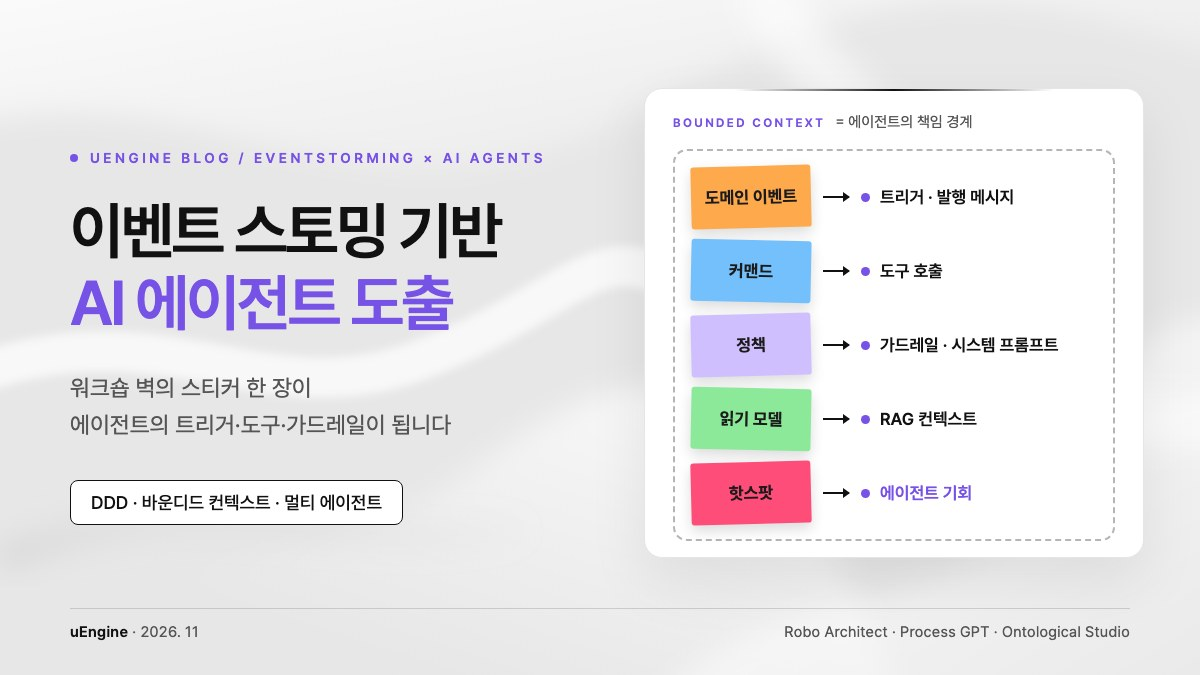
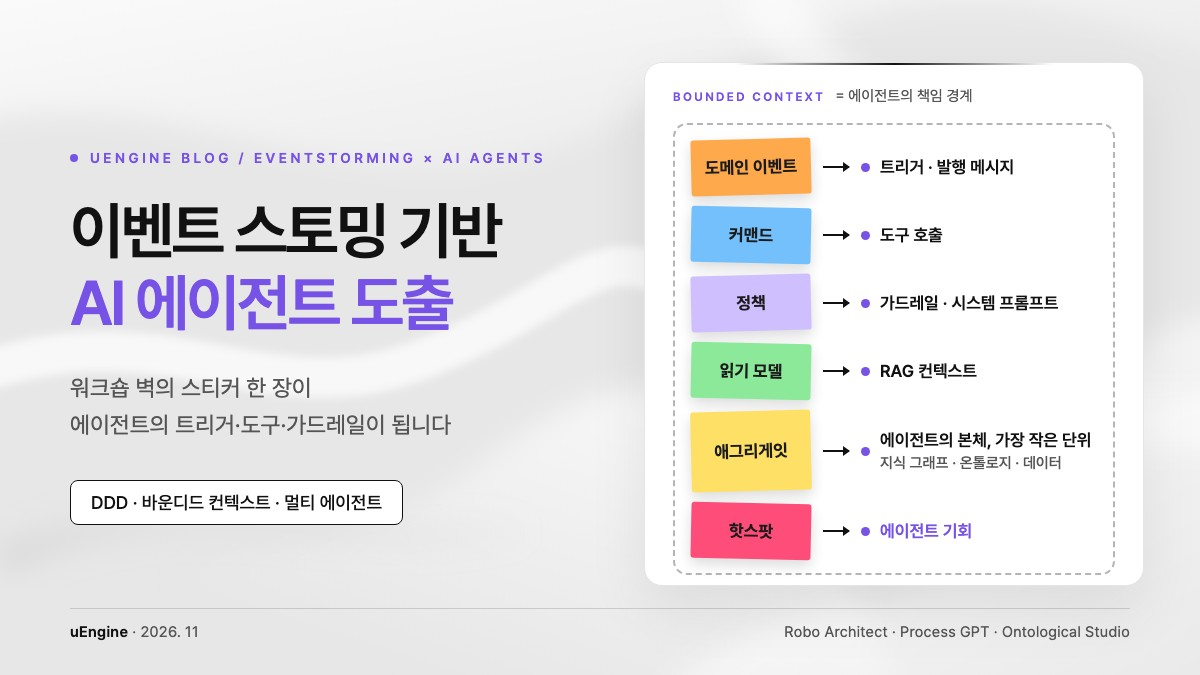
블로그·Agent Storming: 애그리게잇을 에이전트의 본체·가장 작은 단위로 설명 (한·영)
노란 스티커 애그리게잇은 데이터·온톨로지·지식 그래프일 수 있고, 에이전트의
본체가 될 수 있는 것 중 하나이자 가장 작은 단위가 될 수 있다는 관점을 반영한다.

- 블로그 본문 문단과 표 1 애그리게잇 행, 7장 제품 연결 행(Ontological Studio·DB) 추가
- 블로그 표지에 노란 애그리게잇 스티커와 설명 추가, 표지 alt 갱신
- Agent Storming 페이지 스티커 대응표 행과 안내 상자 추가

Changed region(s): [[0.5242, 0.0933, 0.9558, 0.8711]]

diff --git a/contents/blog/eventstorming-ai-agent.html b/contents/blog/eventstorming-ai-agent.html
@@ -490,7 +490,7 @@
                                     <div class="blog-item-body chat-gpt">
 
                                         <div class="mb-50">
-                                            <img src="../../images/blog/eventstorming-ai-agent.jpg" alt="이벤트 스토밍 기반 AI 에이전트 도출 — 도메인 이벤트·커맨드·정책·읽기 모델·핫스팟 스티커가 에이전트의 트리거·도구 호출·가드레일·RAG 컨텍스트·에이전트 기회로 이어지는 그림" style="width: 100%; border-radius: 10px; box-shadow: 0 8px 24px rgba(26,26,46,0.10);" decoding="async" />
+                                            <img src="../../images/blog/eventstorming-ai-agent.jpg" alt="이벤트 스토밍 기반 AI 에이전트 도출 — 도메인 이벤트·커맨드·정책·읽기 모델·애그리게잇·핫스팟 스티커가 에이전트의 트리거·도구 호출·가드레일·RAG 컨텍스트·본체(지식 그래프·온톨로지·데이터)·에이전트 기회로 이어지는 그림" style="width: 100%; border-radius: 10px; box-shadow: 0 8px 24px rgba(26,26,46,0.10);" decoding="async" />
                                         </div>
 
                                         <div class="mb-50 prose" style="border-left: 5px solid #ddd;">
@@ -567,6 +567,11 @@
                                                 노란색으로 그룹화되는 <b>집합체(Aggregate)</b>는 상태 변경의 트랜잭션 무결성을 보장하는 단위로서, 에이전트가 쓰기 작업을 수행하고 영속화(State Persistence)할 수 있는 데이터 권한의 범위를 정의한다<sup><a href="#ref-2">2</a></sup>.
                                             </p>
                                             <p>
+                                                노란 스티커의 몫은 쓰기 권한에서 끝나지 않는다. 애그리게잇은 데이터일 수도 있고, 온톨로지나 지식 그래프일 수도 있다.
+                                                에이전트가 무엇을 알고 어디까지 바꿀 수 있는지가 여기서 정해지므로, 유엔진은 애그리게잇을 에이전트의 본체가 될 수 있는 것 중 하나로 본다.
+                                                바운디드 컨텍스트가 에이전트의 책임 경계라면, 애그리게잇은 그 안에서 에이전트의 가장 작은 단위가 될 수 있다.
+                                            </p>
+                                            <p>
                                                 <b>바운디드 컨텍스트(Bounded Context)</b>는 유비쿼터스 언어(Ubiquitous Language)가 동일한 비즈니스 의미를 유지하는 논리적 경계다<sup><a href="#ref-2">2</a></sup>.
                                                 멀티 에이전트 설계에서 바운디드 컨텍스트는 두 가지 아키텍처 양식으로 구체화된다<sup><a href="#ref-2">2</a></sup>.
                                                 첫째는 컨텍스트 자체를 고유한 전문 지식과 프롬프트를 갖춘 단일 지능형 에이전트로 모델링하는 인지 에이전트(Cognitive Agent) 방식이며, 둘째는 해당 컨텍스트 내부에서 상호작용하는 다수의 미세 전문 에이전트들이 공통의 도메인 모델을 공유하는 작업공간(Workspace) 방식이다<sup><a href="#ref-2">2</a></sup>.
@@ -608,7 +613,7 @@
                                                         <td style="padding: 12px 14px; border: 1px solid #ddd;"><b>애그리게잇</b> (Aggregate)</td>
                                                         <td style="padding: 12px 14px; border: 1px solid #ddd;"><span style="display: inline-block; width: 14px; height: 14px; background: #FFE066; border-radius: 2px; vertical-align: -2px; margin-right: 6px;"></span>노란색 (Yellow / Group)</td>
                                                         <td style="padding: 12px 14px; border: 1px solid #ddd;">트랜잭션 일관성과 상태 변경의 최소 단위</td>
-                                                        <td style="padding: 12px 14px; border: 1px solid #ddd;">에이전트가 관리하는 영속 상태 저장소 및 쓰기 권한 범위<sup><a href="#ref-2">2</a></sup></td>
+                                                        <td style="padding: 12px 14px; border: 1px solid #ddd;">에이전트가 관리하는 영속 상태 저장소 및 쓰기 권한 범위<sup><a href="#ref-2">2</a></sup>. 데이터·온톨로지·지식 그래프로서 에이전트의 본체가 될 수 있는 가장 작은 단위</td>
                                                     </tr>
                                                     <tr>
                                                         <td style="padding: 12px 14px; border: 1px solid #ddd;"><b>행위자</b> (Actor / Agent)</td>
@@ -924,14 +929,18 @@
                                                         <td style="padding: 12px 16px; border: 1px solid #ddd;"><b>Ontological Studio</b>에서 발행한 온톨로지를 에이전트가 읽고 관계를 따라가 답하며, 답마다 <b>근거 노드·관계</b>가 화면에 남습니다(Graph RAG). 같은 지식을 MCP로 다른 AI 에이전트에도 제공합니다.<br><a href="../ontologystudio.html#feat-ask" style="font-size: 13px; font-weight: 600; text-decoration: underline; color: #7c4dbc;">↗ 소개 페이지에서 보기</a></td>
                                                     </tr>
                                                     <tr>
+                                                        <td style="padding: 12px 16px; border: 1px solid #ddd; vertical-align: top;"><b>애그리게잇: 데이터·온톨로지·지식 그래프</b><br>(에이전트의 본체가 될 수 있는 가장 작은 단위)</td>
+                                                        <td style="padding: 12px 16px; border: 1px solid #ddd;"><b>Ontological Studio</b>에서 근거로 삼을 문서나 데이터베이스를 고르면 에이전트가 <b>개념과 관계를 설계</b>하고 사실을 인스턴스로 옮겨 온톨로지를 만듭니다. 발행 여부는 사람이 결정합니다. <b>Ontological DB</b>는 그래프를 다룰 에이전트에게 스키마 요약과 오류 정정 후보를 직접 제공합니다.<br><a href="../ontologystudio.html#feat-build" style="font-size: 13px; font-weight: 600; text-decoration: underline; color: #7c4dbc;">↗ Ontological Studio 소개</a> &nbsp; <a href="../ontologicaldb.html#feat-agent" style="font-size: 13px; font-weight: 600; text-decoration: underline; color: #7c4dbc;">↗ Ontological DB 소개</a></td>
+                                                    </tr>
+                                                    <tr style="background-color: #f7f7fa;">
                                                         <td style="padding: 12px 16px; border: 1px solid #ddd; vertical-align: top;"><b>커맨드: 도구 호출과 외부 시스템 연동</b><br>(애그리게잇의 쓰기 권한 범위)</td>
                                                         <td style="padding: 12px 16px; border: 1px solid #ddd;">수행할 지시를 <b>Golden Command</b>로 적어 두면 에이전트가 업무 시스템의 API를 살펴 액션과 보상, 사용 정책을 만들고 드라이런으로 검증합니다. 실행은 언제나 사람의 승인을 거칩니다. Process GPT의 <b>MCP 허브</b>는 서버가 아니라 툴 단위로 권한을 주고, 되돌릴 수 없는 툴만 따로 차단할 수 있습니다.<br><a href="../ontologystudio.html#feat-act" style="font-size: 13px; font-weight: 600; text-decoration: underline; color: #7c4dbc;">↗ Golden Command 보기</a> &nbsp; <a href="../processgpt.html#feat-mcphub" style="font-size: 13px; font-weight: 600; text-decoration: underline; color: #7c4dbc;">↗ MCP 허브 보기</a></td>
                                                     </tr>
-                                                    <tr style="background-color: #f7f7fa;">
+                                                    <tr>
                                                         <td style="padding: 12px 16px; border: 1px solid #ddd; vertical-align: top;"><b>핫스팟: 병목의 실측</b><br>(로드맵 2·5단계)</td>
                                                         <td style="padding: 12px 16px; border: 1px solid #ddd;"><b>리드타임 분해</b>가 전체 경과 시간을 사람 판단·에이전트 수행·큐 대기로 나누고, 여러 인스턴스를 모아 프로세스 정의 단위의 병목을 드러냅니다. 워크숍에서 붙인 핫스팟을 운영 데이터로 다시 확인할 수 있습니다.<br><a href="../processgpt.html#feat-leadtime" style="font-size: 13px; font-weight: 600; text-decoration: underline; color: #7c4dbc;">↗ 소개 페이지에서 보기</a></td>
                                                     </tr>
-                                                    <tr>
+                                                    <tr style="background-color: #f7f7fa;">
                                                         <td style="padding: 12px 16px; border: 1px solid #ddd; vertical-align: top;"><b>관측성과 토큰 비용</b><br>(로드맵 4단계, 5장의 한계)</td>
                                                         <td style="padding: 12px 16px; border: 1px solid #ddd;"><b>실행 프로파일러</b>가 워터폴 → 태스크 → 언어 모델 호출 → 툴 호출을 부모-자식으로 이어 보여 주고, 인스턴스마다 소요 시간과 토큰 비용을 함께 엽니다.<br><a href="../processgpt.html#feat-profiler" style="font-size: 13px; font-weight: 600; text-decoration: underline; color: #7c4dbc;">↗ 소개 페이지에서 보기</a></td>
                                                     </tr>

diff --git a/en/contents/blog/eventstorming-ai-agent.html b/en/contents/blog/eventstorming-ai-agent.html
@@ -480,7 +480,7 @@
                                     <div class="blog-item-body chat-gpt">
 
                                         <div class="mb-50">
-                                            <img src="../../../images/en/blog/eventstorming-ai-agent.jpg" alt="Deriving AI Agents from EventStorming — domain event, command, policy, read model and hotspot sticky notes leading to an agent’s trigger, tool call, guardrail, RAG context and agent opportunity" style="width: 100%; border-radius: 10px; box-shadow: 0 8px 24px rgba(26,26,46,0.10);" decoding="async" />
+                                            <img src="../../../images/en/blog/eventstorming-ai-agent.jpg" alt="Deriving AI Agents from EventStorming: domain event, command, policy, read model, aggregate and hotspot stickies lead to an agent’s trigger, tool call, guardrail, RAG context, body (knowledge graph, ontology, data) and agent opportunity" style="width: 100%; border-radius: 10px; box-shadow: 0 8px 24px rgba(26,26,46,0.10);" decoding="async" />
                                         </div>
 
                                         <div class="mb-50 prose" style="border-left: 5px solid #ddd;">
@@ -557,6 +557,11 @@
                                                 An <b>aggregate</b>, grouped in yellow, is the unit that guarantees the transactional integrity of state changes, and it defines the scope of data an agent may write to and persist (state persistence)<sup><a href="#ref-2">2</a></sup>.
                                             </p>
                                             <p>
+                                                The yellow sticky’s role doesn’t end at write permissions. An aggregate can be data, or it can be an ontology or a knowledge graph.
+                                                Because this is where it is settled what an agent knows and how far it can change things, uEngine sees the aggregate as one of the things that can serve as the body of an agent.
+                                                If the bounded context is the agent’s boundary of responsibility, the aggregate can be the agent’s smallest unit within it.
+                                            </p>
+                                            <p>
                                                 A <b>bounded context</b> is the logical boundary within which the ubiquitous language keeps a single business meaning<sup><a href="#ref-2">2</a></sup>.
                                                 In multi-agent design, a bounded context takes one of two architectural forms<sup><a href="#ref-2">2</a></sup>.
                                                 The first is the cognitive agent style, which models the context itself as a single intelligent agent with its own expertise and prompts; the second is the workspace style, in which many fine-grained specialist agents interacting inside the context share a common domain model<sup><a href="#ref-2">2</a></sup>.
@@ -598,7 +603,7 @@
                                                         <td style="padding: 12px 14px; border: 1px solid #ddd;"><b>Aggregate</b></td>
                                                         <td style="padding: 12px 14px; border: 1px solid #ddd;"><span style="display: inline-block; width: 14px; height: 14px; background: #FFE066; border-radius: 2px; vertical-align: -2px; margin-right: 6px;"></span>Yellow (group)</td>
                                                         <td style="padding: 12px 14px; border: 1px solid #ddd;">The smallest unit of transactional consistency and state change</td>
-                                                        <td style="padding: 12px 14px; border: 1px solid #ddd;">Persistent state store the agent manages, and the scope of its write permissions<sup><a href="#ref-2">2</a></sup></td>
+                                                        <td style="padding: 12px 14px; border: 1px solid #ddd;">Persistent state store the agent manages, and the scope of its write permissions<sup><a href="#ref-2">2</a></sup>. Also, as data, an ontology or a knowledge graph, the smallest unit that can serve as the body of an agent</td>
                                                     </tr>
                                                     <tr>
                                                         <td style="padding: 12px 14px; border: 1px solid #ddd;"><b>Actor</b> / Agent</td>
@@ -914,14 +919,18 @@
                                                         <td style="padding: 12px 16px; border: 1px solid #ddd;">Agents read the ontology published in <b>Ontological Studio</b> and answer by following its relationships, and every answer leaves its <b>evidence nodes and relationships</b> on screen (Graph RAG). The same knowledge is offered to other AI agents over MCP.<br><a href="../ontologystudio.html#feat-ask" style="font-size: 13px; font-weight: 600; text-decoration: underline; color: #7c4dbc;">↗ See it on the product page</a></td>
                                                     </tr>
                                                     <tr>
+                                                        <td style="padding: 12px 16px; border: 1px solid #ddd; vertical-align: top;"><b>Aggregate: data, ontology, knowledge graph</b><br>(the smallest unit that can serve as the body of an agent)</td>
+                                                        <td style="padding: 12px 16px; border: 1px solid #ddd;">In <b>Ontological Studio</b>, you pick the documents or databases to rely on, and an agent <b>designs the concepts and relationships</b> and moves the facts into instances to build the ontology. A person decides whether to publish it. <b>Ontological DB</b> gives agents working with a graph a schema summary and error-correction candidates directly.<br><a href="../ontologystudio.html#feat-build" style="font-size: 13px; font-weight: 600; text-decoration: underline; color: #7c4dbc;">↗ About Ontological Studio</a> &nbsp; <a href="../ontologicaldb.html#feat-agent" style="font-size: 13px; font-weight: 600; text-decoration: underline; color: #7c4dbc;">↗ About Ontological DB</a></td>
+                                                    </tr>
+                                                    <tr style="background-color: #f7f7fa;">
                                                         <td style="padding: 12px 16px; border: 1px solid #ddd; vertical-align: top;"><b>Command: tool calls and external system integration</b><br>(an aggregate’s write scope)</td>
                                                         <td style="padding: 12px 16px; border: 1px solid #ddd;">Write the instruction down as a <b>Golden Command</b> and the agent studies the business system’s APIs to create the action, its compensation and its usage policy, then validates them with a dry run. Execution always goes through human approval. Process GPT’s <b>MCP Hub</b> grants permissions per tool rather than per server and can block only the irreversible tools.<br><a href="../ontologystudio.html#feat-act" style="font-size: 13px; font-weight: 600; text-decoration: underline; color: #7c4dbc;">↗ Golden Command</a> &nbsp; <a href="../processgpt.html#feat-mcphub" style="font-size: 13px; font-weight: 600; text-decoration: underline; color: #7c4dbc;">↗ MCP Hub</a></td>
                                                     </tr>
-                                                    <tr style="background-color: #f7f7fa;">
+                                                    <tr>
                                                         <td style="padding: 12px 16px; border: 1px solid #ddd; vertical-align: top;"><b>Hotspot: measuring the bottleneck</b><br>(roadmap stages 2 and 5)</td>
                                                         <td style="padding: 12px 16px; border: 1px solid #ddd;"><b>Lead Time Breakdown</b> splits total elapsed time into human decision, agent work and queue wait, and gathers many instances to expose bottlenecks per process definition. The hotspots stuck on the workshop wall can be checked again against operating data.<br><a href="../processgpt.html#feat-leadtime" style="font-size: 13px; font-weight: 600; text-decoration: underline; color: #7c4dbc;">↗ See it on the product page</a></td>
                                                     </tr>
-                                                    <tr>
+                                                    <tr style="background-color: #f7f7fa;">
                                                         <td style="padding: 12px 16px; border: 1px solid #ddd; vertical-align: top;"><b>Observability and token cost</b><br>(roadmap stage 4, limits in section 5)</td>
                                                         <td style="padding: 12px 16px; border: 1px solid #ddd;">The <b>Execution Profiler</b> links waterfall → task → language model call → tool call as parent and child, and opens each instance’s elapsed time and token cost together.<br><a href="../processgpt.html#feat-profiler" style="font-size: 13px; font-weight: 600; text-decoration: underline; color: #7c4dbc;">↗ See it on the product page</a></td>
                                                     </tr>

diff --git a/contents/agentstorming.html b/contents/agentstorming.html
@@ -734,13 +734,16 @@
                                     <tr><td><span class="as-sticky" style="background: #74C0FC;">커맨드<small>Command</small></span></td><td>상태 변경을 일으키는 명령과 의도</td><td>에이전트 작업 지시, 도구 호출(Function Calling) 신호와 행동</td></tr>
                                     <tr><td><span class="as-sticky" style="background: #D0BFFF;">정책<small>Policy</small></span></td><td>조건에 반응하는 업무 규칙</td><td>시스템 프롬프트, 조건부 라우팅, 가드레일(허용 범위를 벗어난 실행을 막는 규칙)</td></tr>
                                     <tr><td><span class="as-sticky" style="background: #8CE99A;">읽기 모델<small>Read Model</small></span></td><td>의사결정용 정보 뷰</td><td>RAG 컨텍스트, 인메모리 뷰, 데이터 조회 판단과 맥락</td></tr>
-                                    <tr><td><span class="as-sticky" style="background: #FFE066;">애그리게잇<small>Aggregate</small></span></td><td>트랜잭션 일관성의 최소 단위</td><td>영속 상태 저장소, 쓰기 권한 범위</td></tr>
+                                    <tr><td><span class="as-sticky" style="background: #FFE066;">애그리게잇<small>Aggregate</small></span></td><td>트랜잭션 일관성의 최소 단위</td><td>영속 상태 저장소, 쓰기 권한 범위. 데이터·온톨로지·지식 그래프로서 에이전트의 본체가 될 수 있는 가장 작은 단위</td></tr>
                                     <tr><td><span class="as-sticky" style="background: #FFE066;">행위자<small>Actor</small></span></td><td>작업을 수행하는 주체</td><td>AI 에이전트 또는 사람(Human-in-the-loop)</td></tr>
                                     <tr><td><span class="as-sticky" style="background: #F7A8C8;">외부 시스템<small>External System</small></span></td><td>도메인 밖 서드파티와 레거시 서비스</td><td>외부 SaaS 구독형 서비스, 레거시 기간계 API</td></tr>
                                     <tr><td><span class="as-sticky" style="background: #FF4D79;">핫스팟<small>Hotspot</small></span></td><td>마찰, 지연, 병목, 미해결 위험 지점</td><td>자동화와 혁신의 핵심 후보 지점</td></tr>
                                     <tr><td><span class="as-sticky bc">바운디드 컨텍스트<small>Bounded Context</small></span></td><td>용어와 모델이 유효한 경계</td><td>단일 에이전트의 책임 영역 또는 멀티 에이전트 팀의 우선순위와 경계</td></tr>
                                 </tbody>
                             </table>
+                        </div>
+                        <div class="as-wrap">
+                            <div class="as-callout"><b>노란 스티커는 에이전트의 본체가 될 수 있습니다</b> &mdash; 애그리게잇은 데이터일 수도 있고, 온톨로지나 지식 그래프일 수도 있습니다. 에이전트가 무엇을 알고 어디까지 바꿀 수 있는지가 여기서 정해지기 때문에, 유엔진은 애그리게잇을 에이전트의 본체가 될 수 있는 것 중 하나로 봅니다. 바운디드 컨텍스트가 에이전트의 책임 경계라면, 애그리게잇은 그 안에서 에이전트의 가장 작은 단위가 될 수 있습니다.</div>
                         </div>
                     </div>
                 </section>

diff --git a/en/contents/agentstorming.html b/en/contents/agentstorming.html
@@ -724,13 +724,16 @@
                                     <tr><td><span class="as-sticky" style="background: #74C0FC;">Command<small>blue</small></span></td><td>A command and intent that cause a state change</td><td>Agent task instructions; tool-call (Function Calling) signals and actions</td></tr>
                                     <tr><td><span class="as-sticky" style="background: #D0BFFF;">Policy<small>lilac</small></span></td><td>A business rule that reacts to conditions</td><td>System prompt, conditional routing and guardrails (rules that stop execution outside the allowed scope)</td></tr>
                                     <tr><td><span class="as-sticky" style="background: #8CE99A;">Read Model<small>green</small></span></td><td>An information view for decision-making</td><td>RAG context, in-memory view, data lookups for judgment and context</td></tr>
-                                    <tr><td><span class="as-sticky" style="background: #FFE066;">Aggregate<small>yellow</small></span></td><td>The smallest unit of transactional consistency</td><td>Persistent state store; scope of write permissions</td></tr>
+                                    <tr><td><span class="as-sticky" style="background: #FFE066;">Aggregate<small>yellow</small></span></td><td>The smallest unit of transactional consistency</td><td>Persistent state store; scope of write permissions. Also, as data, an ontology or a knowledge graph, the smallest unit that can serve as the body of an agent</td></tr>
                                     <tr><td><span class="as-sticky" style="background: #FFE066;">Actor<small>yellow</small></span></td><td>Whoever performs the work</td><td>An AI agent or a person (human-in-the-loop)</td></tr>
                                     <tr><td><span class="as-sticky" style="background: #F7A8C8;">External System<small>pink</small></span></td><td>Third-party and legacy services outside the domain</td><td>External SaaS subscriptions; legacy core-system APIs</td></tr>
                                     <tr><td><span class="as-sticky" style="background: #FF4D79;">Hotspot<small>red</small></span></td><td>Friction, delays, bottlenecks and unresolved risks</td><td>Prime candidates for automation and innovation</td></tr>
                                     <tr><td><span class="as-sticky bc">Bounded Context<small>dashed boundary</small></span></td><td>The boundary within which terms and models hold</td><td>A single agent’s area of responsibility, or a multi-agent team’s priorities and boundaries</td></tr>
                                 </tbody>
                             </table>
+                        </div>
+                        <div class="as-wrap">
+                            <div class="as-callout"><b>The yellow sticky can be the body of an agent</b> &mdash; An aggregate can be data, or it can be an ontology or a knowledge graph. Because this is where it is settled what an agent knows and how far it can change things, uEngine sees the aggregate as one of the things that can serve as the body of an agent. If the bounded context is the agent’s boundary of responsibility, the aggregate can be the agent’s smallest unit within it.</div>
                         </div>
                     </div>
                 </section>

diff --git a/index.html b/index.html
@@ -690,7 +690,7 @@
                                 <div class="post-prev-container">
 
                                     <div class="post-prev-img">
-                                        <a href="contents/blog/eventstorming-ai-agent.html"><img src="images/blog/eventstorming-ai-agent.jpg" alt="이벤트 스토밍 기반 AI 에이전트 도출 블로그 이미지 — 도메인 이벤트·커맨드·정책·읽기 모델·핫스팟이 에이전트의 트리거·도구 호출·가드레일·RAG 컨텍스트·에이전트 기회로 이어지는 그림" loading="lazy" decoding="async" /></a>
+                                        <a href="contents/blog/eventstorming-ai-agent.html"><img src="images/blog/eventstorming-ai-agent.jpg" alt="이벤트 스토밍 기반 AI 에이전트 도출 블로그 이미지 — 도메인 이벤트·커맨드·정책·읽기 모델·애그리게잇·핫스팟이 에이전트의 트리거·도구 호출·가드레일·RAG 컨텍스트·본체·에이전트 기회로 이어지는 그림" loading="lazy" decoding="async" /></a>
                                     </div>
 
                                     <h4 class="post-prev-title"><a href="contents/blog/eventstorming-ai-agent.html">이벤트 스토밍 기반 AI 에이전트 도출</a></h4>

diff --git a/en/index.html b/en/index.html
@@ -680,7 +680,7 @@
                                 <div class="post-prev-container">
 
                                     <div class="post-prev-img">
-                                        <a href="contents/blog/eventstorming-ai-agent.html"><img src="../images/en/blog/eventstorming-ai-agent.jpg" alt="Deriving AI Agents from EventStorming blog image — domain events, commands, policies, read models and hotspots leading to an agent’s triggers, tool calls, guardrails, RAG context and agent opportunities" loading="lazy" decoding="async" /></a>
+                                        <a href="contents/blog/eventstorming-ai-agent.html"><img src="../images/en/blog/eventstorming-ai-agent.jpg" alt="Deriving AI Agents from EventStorming blog image: domain event, command, policy, read model, aggregate and hotspot lead to an agent’s trigger, tool call, guardrail, RAG context, body and agent opportunity" loading="lazy" decoding="async" /></a>
                                     </div>
 
                                     <h4 class="post-prev-title"><a href="contents/blog/eventstorming-ai-agent.html">Deriving AI Agents from EventStorming</a></h4>
